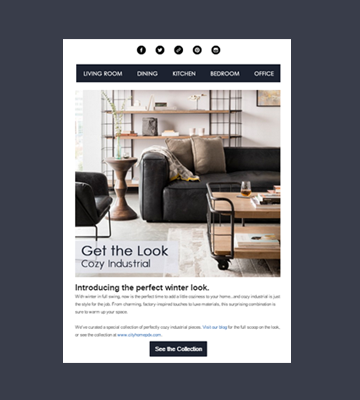
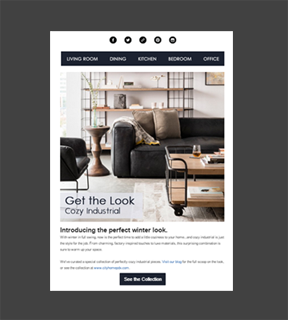
fix bg color and margin on contact div

diff --git a/css/styles.css b/css/styles.css
@@ -28,7 +28,7 @@ Parchment: #fefcf7;
   width: 100%;
   font-family: Gill Sans / Gill Sans MT, sans-serif;
   text-transform: uppercase;
-  background-color: #fefcf7;
+  background-color: #fffdfa;
   color: #242d33;
   border: 1px solid #242d33;
 }
@@ -55,7 +55,7 @@ body {
   font-family: sans-serif;
   color: #242d33;
   /*color: #584d45;*/
-  background-color: #fefcf7;
+  background-color: #fffdfa;
 }
 
 h1 {
@@ -248,7 +248,7 @@ a {
   left: 0;
   width: 100%;
   height: 100%;
-  background-color: #fefcf7;
+  background-color: #fffdfa;
   border: 2px solid #ededed;
   color: #363636;
   opacity: 1;
@@ -341,6 +341,10 @@ a {
     bottom: 40%;
     right: -40%;
   }
+
+  #contact {
+    margin-top: 30%;
+  }
 }
 
 @media screen and (max-width:540px) {
@@ -386,11 +390,6 @@ a {
     margin: 0 auto;
   }
 
-  .stripe {
-    width: 1000px;
-    bottom: 55%;
-    right: -60%;
-  }
 }
 
 @media screen and (max-width: 350px) {
@@ -404,7 +403,7 @@ a {
 }
 
 
-/* Fix nav display bug that occurs when resizing browser window */
+/* Fix nav display bug that occurs when resizing browser window*/
 @media screen and (min-width: 541px) {
   .navlinks li {
     display: inline;
